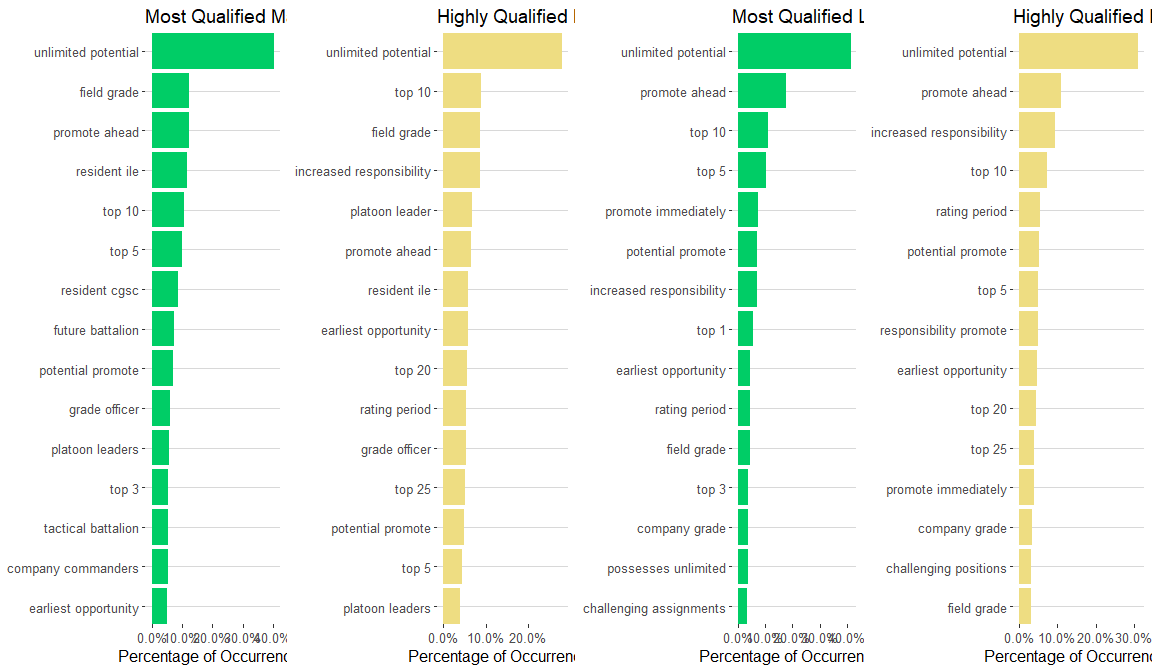
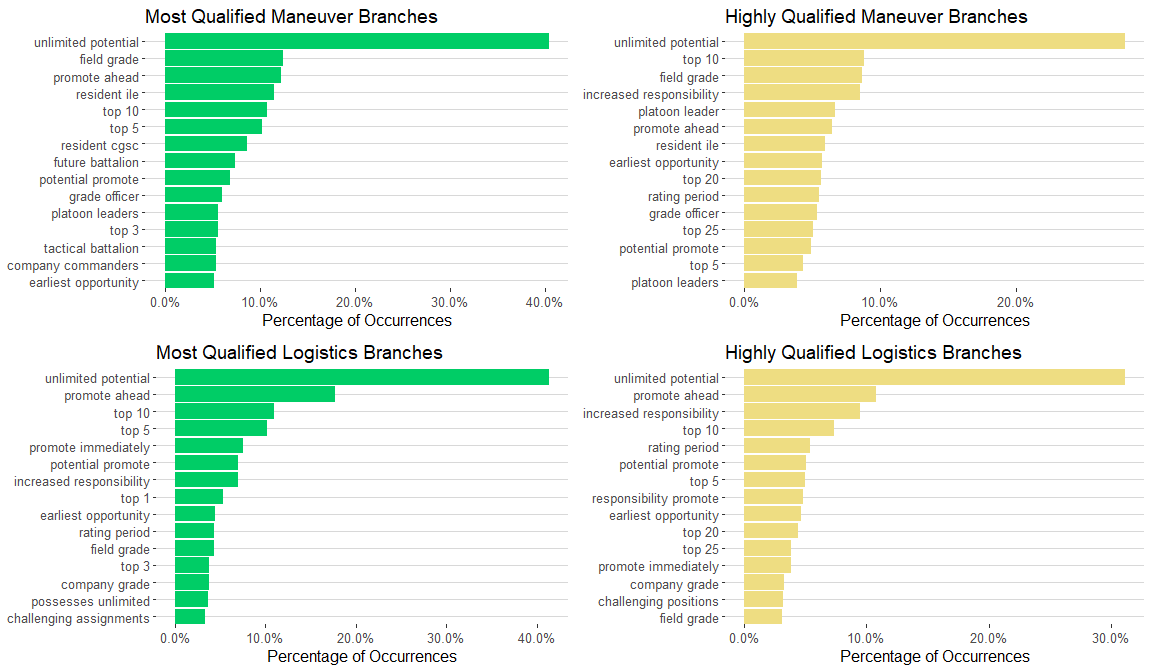
Fixed plots

Changed region(s): [[0.5, 0.0, 1.0, 1.0], [0.0, 0.0, 0.5, 1.0], [0.4375, 0.4375, 0.5, 0.4688]]

diff --git a/OER_Plots.md b/OER_Plots.md
@@ -210,7 +210,7 @@ Percentage of Occurrences
 -------------------------
 
 ``` r
-grid.arrange(combat_mq_bigram_plot, combat_hq_bigram_plot, logistics_mq_bigram_plot, logistics_hq_bigram_plot, nrow = 1)
+grid.arrange(combat_mq_bigram_plot, combat_hq_bigram_plot, logistics_mq_bigram_plot, logistics_hq_bigram_plot, nrow = 2)
 ```
 
 ![](OER_Plots_files/figure-markdown_github/unnamed-chunk-21-1.png)
